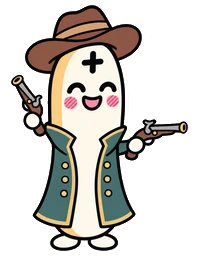
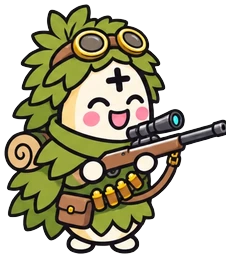
New Ninja and Sniper mascot art (#507)
The owner's redrawn Ninja and Sniper replace their portraits (cut from the
sheet's own alpha, cleaned and fitted to the 256 px portrait height). Their
old rig and animation parts still show the previous look, so until the
redesigned rig sheets arrive these two classes walk and fight as the
single-picture puppet (PUPPET_HEROES in sprites.js). The Pistoler keeps its
existing art and rig.

Claude-Session: https://claude.ai/code/session_019kevwHHi9fDprq4oAiuq6N

diff --git a/src/render/sprites.js b/src/render/sprites.js
@@ -2010,6 +2010,11 @@ function heroImage(style) {
   return img;
 }
 const HERO_ART_H = 56, HERO_ART_W = 60, HERO_ART_FEET = 15;
+// Classes whose portrait has been redrawn but whose layered rig parts (and
+// painted back view) still show the old look. Until the redesigned rig sheets
+// arrive they walk and fight as the single-picture puppet below, which uses
+// the new portrait. The old rig files stay registered, just unused here.
+export const PUPPET_HEROES = new Set(['ninja', 'sniper']);
 
 // ---- Puppet animation for the painted hero ----
 // The picture is cut once into a body and two feet (the bottom band, split at
@@ -2245,7 +2250,7 @@ export function drawPlayer(ctx, cx, cy, opts = {}) {
       const w = himg.naturalWidth * s, h = himg.naturalHeight * s;
       const g = opts.gait;
       // Walking up the screen shows the painted back view where a class has one.
-      const layered = drawHeroBack(c, opts) || drawHeroRig(c, opts) || drawRangedHeroRig(c, opts);
+      const layered = !PUPPET_HEROES.has(opts.jobClass) && (drawHeroBack(c, opts) || drawHeroRig(c, opts) || drawRangedHeroRig(c, opts));
       if (!layered) {
         if (g && !pose) heroPuppet(c, himg, w, h, g, t);
         else {
